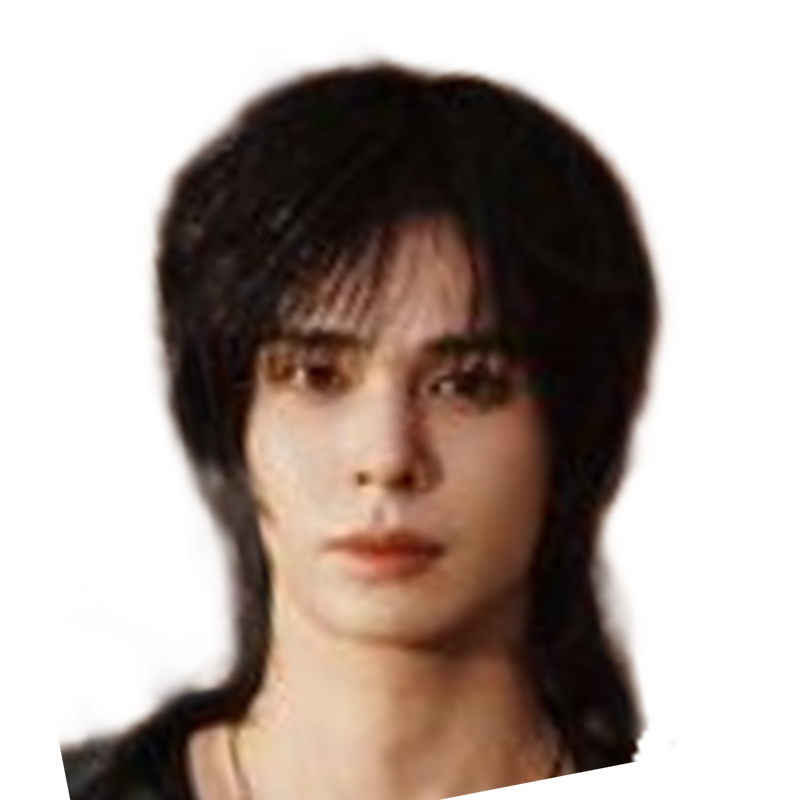
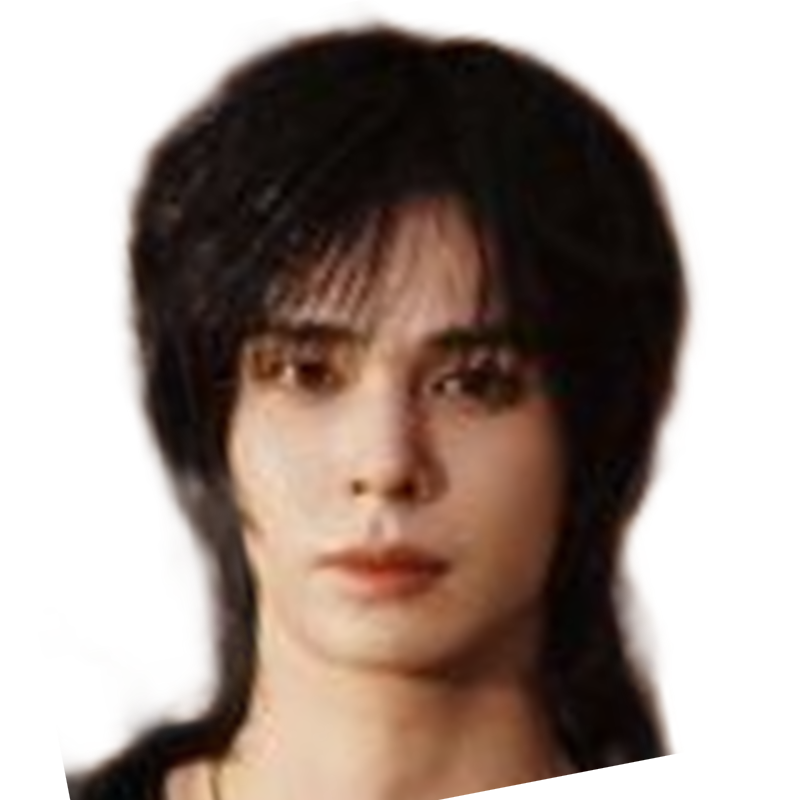
Update Fantasy photos

Changed region(s): [[0.0625, 0.0, 0.875, 1.0], [0.3125, 0.2188, 0.3438, 0.2812]]

diff --git a/js/ranking.js b/js/ranking.js
@@ -4,7 +4,7 @@
 /* ========================================= */
 
 /* Bump when the avatar images change, to bust the browser/Pages cache. */
-const PHOTO_VER = 160;
+const PHOTO_VER = 161;
 window.PHOTO_VER = PHOTO_VER;
 
 const Ranking = {
